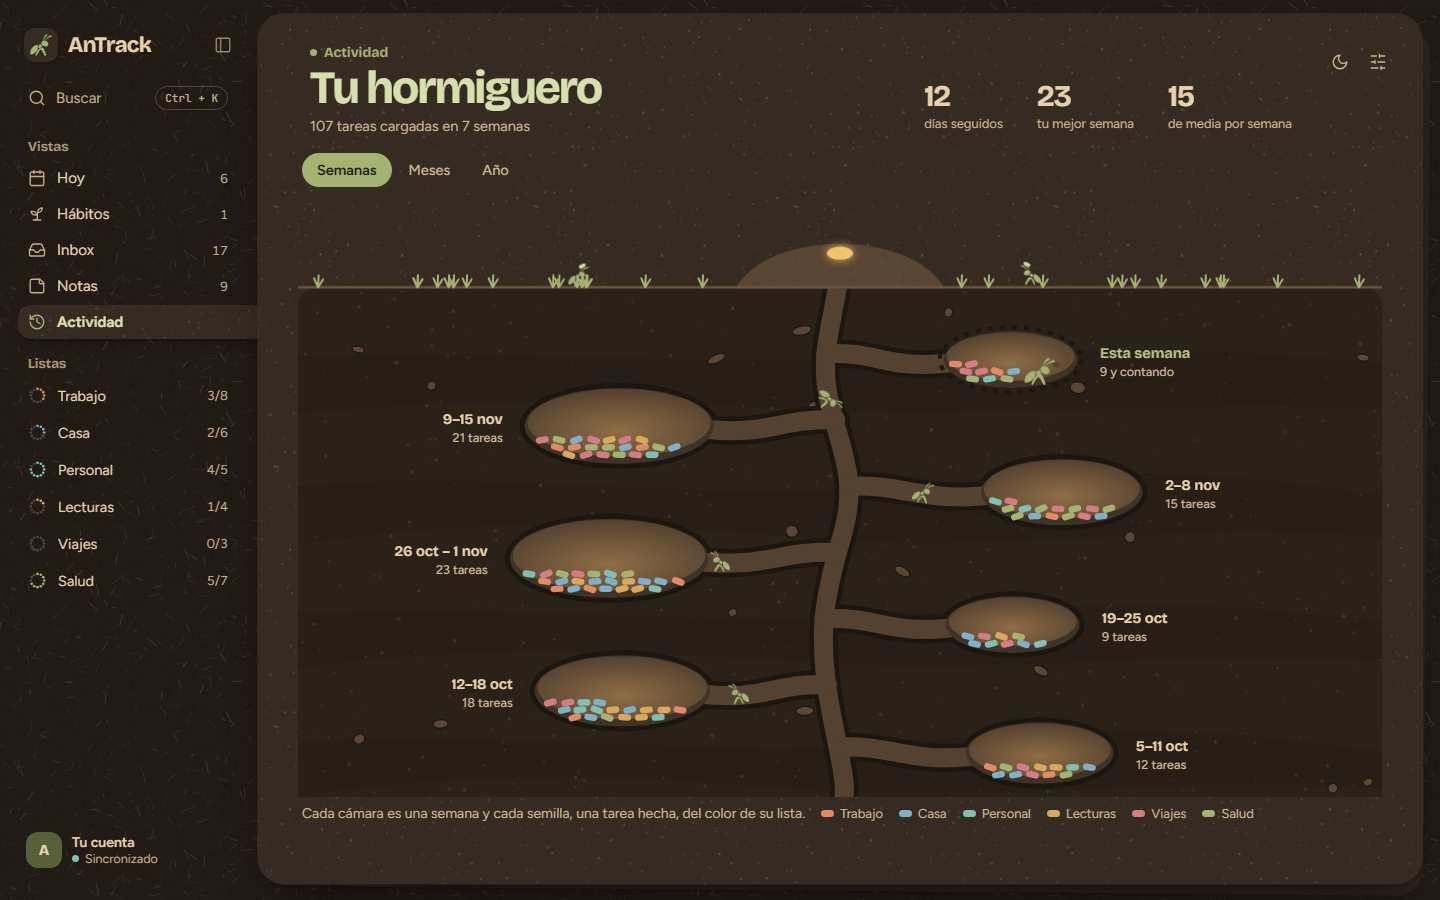
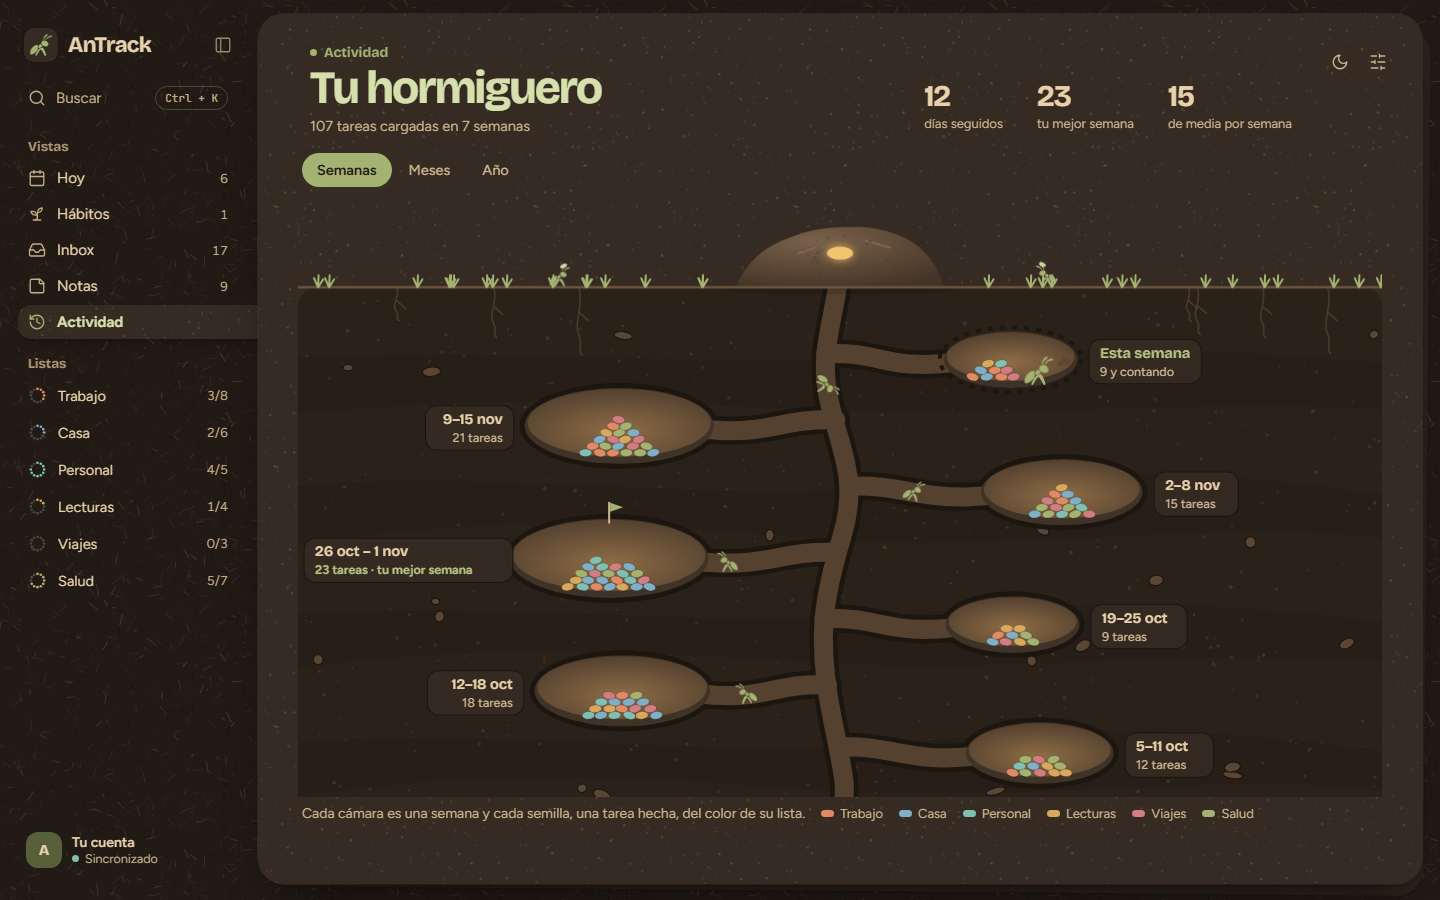
Docs: hormiguero de Actividad renovado (montículo, raíces, luz, pilas y mejor semana)

diff --git a/docs/disenos/hormiga/movil.html b/docs/disenos/hormiga/movil.html
@@ -670,6 +670,18 @@ a{color:inherit;text-decoration:none}
 .mes-dia-tit b{font:650 18px var(--f-disp)}
 .mes-dia-tit span{font-size:13px;color:var(--t3)}
 
+/* ═══ 26-nov: hormiguero de Actividad renovado ═══ */
+:root{--mont-1:#ecca8e;--mont-2:#d6ad6c;--mont-3:#b78a50;--ramita:#9b7a4a;--hueco-luz:#fffaf0;--raiz:#a88456;--tablilla:rgba(251,244,223,.88)}
+:root[data-theme="dark"]{--mont-1:#7a624c;--mont-2:#5c4836;--mont-3:#433427;--ramita:#806650;--hueco-luz:#a07a4c;--raiz:#5e4a38;--tablilla:rgba(53,43,35,.88)}
+.c-hueco{fill:url(#luz-camara)}
+.semilla{stroke:rgba(0,0,0,.2);stroke-width:.8}
+.raiz{fill:none;stroke:var(--raiz);stroke-width:1.7;stroke-linecap:round;opacity:.6}
+.ramita{fill:none;stroke:var(--ramita);stroke-width:2.2;stroke-linecap:round}
+.tablilla{fill:var(--tablilla);stroke:var(--tierra-borde);stroke-width:1}
+.bandera-r path:first-child{stroke:var(--t2);stroke-width:2;stroke-linecap:round}
+.bandera-r path:last-child{fill:var(--o500)}
+.mejor .etq-2{fill:var(--o600);font-weight:650}
+
 @media (prefers-reduced-motion:reduce){*,*::before,*::after{animation:none!important;transition:none!important}}
 </style>
 </head>
@@ -947,27 +959,34 @@ function enRuta(d,dur,begin,flip,w,miga=false,sup=false){
   const y=sup?-w*0.92:-w*0.55;
   return `<g><animateMotion dur="${dur}s" begin="${begin}" repeatCount="indefinite" rotate="auto" path="${d}"/><g transform="scale(1 ${flip?-1:1})">${hormiga({x:-w/2,y,w,cls:'anda'})}${miga?`<ellipse class="miga-llevada" cx="${(w*0.16).toFixed(1)}" cy="${(y+w*0.06).toFixed(1)}" rx="${(w*0.15).toFixed(1)}" ry="${(w*0.085).toFixed(1)}" transform="rotate(-25 ${(w*0.16).toFixed(1)} ${(y+w*0.06).toFixed(1)})"/>`:''}</g></g>`;
 }
+function montArriba(x0,x1,G,h){const X=u=>(x0+u*(x1-x0)).toFixed(1),Y=v=>(G+1+v*h).toFixed(1);
+  const d=`M${X(0)} ${Y(0)} C ${X(.04)} ${Y(-.38)}, ${X(.12)} ${Y(-.7)}, ${X(.25)} ${Y(-.86)} C ${X(.34)} ${Y(-1)}, ${X(.45)} ${Y(-1.07)}, ${X(.55)} ${Y(-1.05)} C ${X(.64)} ${Y(-1.08)}, ${X(.76)} ${Y(-.97)}, ${X(.83)} ${Y(-.83)} C ${X(.93)} ${Y(-.62)}, ${X(.98)} ${Y(-.3)}, ${X(1)} ${Y(0)} Z`;
+  return `<defs><radialGradient id="mg-act" cx="38%" cy="22%" r="85%"><stop offset="0" style="stop-color:var(--mont-1)"/><stop offset=".55" style="stop-color:var(--mont-2)"/><stop offset="1" style="stop-color:var(--mont-3)"/></radialGradient></defs>
+  <ellipse cx="${X(.5)}" cy="${G+2}" rx="${((x1-x0)*.56).toFixed(0)}" ry="5" style="fill:rgba(0,0,0,.12)"/><path d="${d}" style="fill:url(#mg-act)"/>
+  <path class="ramita" d="M${X(.62)} ${Y(-.82)} l ${((x1-x0)*.12).toFixed(1)} ${(h*.12).toFixed(1)} M${X(.3)} ${Y(-.6)} l ${((x1-x0)*.08).toFixed(1)} ${(-h*.1).toFixed(1)}"/>`;}
+function raices(r,W,G,evitar){let s='';for(let i=0;i<7;i++){const x=r()*W;if(x>evitar[0]&&x<evitar[1])continue;const l=26+r()*40;
+  s+=`<path class="raiz" d="M${x.toFixed(0)} ${G} c 5 ${(l*.3).toFixed(0)}, -6 ${(l*.55).toFixed(0)}, 0 ${(l*.75).toFixed(0)} c 4 ${(l*.15).toFixed(0)}, -2 ${(l*.25).toFixed(0)}, 3 ${(l*.3).toFixed(0)} M${x.toFixed(0)} ${(G+l*.4).toFixed(0)} l 9 8"/>`;}return s;}
 function camara(c,r,cols){
-  let s=`<g class="camara${c.actual?' cavando':''}"><title>${c.e}: ${c.n} tareas hechas</title>`;
+  let s=`<g class="camara${c.actual?' cavando':''}${c.mejor?' mejor':''}"><title>${c.e}: ${c.n} tareas hechas</title>`;
   if(c.actual)s+=`<ellipse class="c-borde-cav" cx="${c.cx}" cy="${c.cy}" rx="${c.rx+3.5}" ry="${c.ry+3.5}"/>`;
   s+=`<ellipse class="c-sombra" cx="${c.cx}" cy="${c.cy}" rx="${c.rx}" ry="${c.ry}"/><ellipse class="c-hueco" cx="${c.cx}" cy="${c.cy-2.5}" rx="${c.rx-2.5}" ry="${c.ry-3.5}"/>`;
-  let n=c.n;
-  for(let row=0;n>0&&row<10;row++){
-    const y=c.cy+c.ry-7-row*6.2;if(y<c.cy-c.ry+8)break;
-    const half=c.rx*Math.sqrt(Math.max(0,1-((y-c.cy)/c.ry)**2))-9;
-    const lim=c.actual?c.cx+half*0.1:c.cx+half;
-    for(let x=c.cx-half+(row%2?4:0);x<=lim&&n>0;x+=12.5+r()*1.5){
-      const col=cols[Math.floor(r()*cols.length)],a=((r()-.5)*44).toFixed(0);
-      s+=`<rect x="${(x-5.5).toFixed(1)}" y="${(y-2.7).toFixed(1)}" width="11" height="5.4" rx="2.7" style="fill:${col}" transform="rotate(${a} ${x.toFixed(1)} ${y.toFixed(1)})"/>`;n--;
-    }
-  }
+  const SW=11,SH=5.4;let base=1;while(base*(base+1)/2<c.n)base++;
+  const floor=c.cy+c.ry-10,half=c.rx*Math.sqrt(Math.max(0,1-((floor-c.cy)/c.ry)**2))-8;base=Math.min(base,Math.max(1,Math.floor(2*half/SW)));
+  const ox=c.actual?-c.rx*0.25:0;let n=c.n;const dec=base*(base+1)/2<c.n?2:1;
+  for(let row=0;n>0&&row<14;row++){const cnt=Math.max(1,base-Math.floor(row/dec)),y=floor-row*SH;if(y<c.cy-c.ry+6)break;const x0=c.cx+ox-(cnt-1)*SW/2;
+    for(let i=0;i<cnt&&n>0;i++,n--){const x=x0+i*SW+(r()-.5)*2,col=cols[Math.floor(r()*cols.length)],a=((r()-.5)*36).toFixed(0);
+      s+=`<ellipse class="semilla" cx="${x.toFixed(1)}" cy="${y.toFixed(1)}" rx="5" ry="3.1" style="fill:${col}" transform="rotate(${a} ${x.toFixed(1)} ${y.toFixed(1)})"/>`;}}
+  if(c.mejor)s+=`<g class="bandera-r"><path d="M${c.cx} ${c.cy-c.ry+4} V ${c.cy-c.ry-16}"/><path d="M${c.cx+1} ${c.cy-c.ry-16} l 13 4.5 l -13 4.5 Z"/></g>`;
+  
   if(c.actual){
     const ax=c.cx+c.rx*0.38,ay=c.cy+c.ry-27;
     s+=hormiga({x:ax-13,y:ay,w:26,cls:'cava'});
     for(let i=0;i<5;i++)s+=`<circle class="tierra-salta" cx="${(ax+12).toFixed(1)}" cy="${(ay+11).toFixed(1)}" r="${(1.3+r()*1.2).toFixed(1)}" style="--dx:${(6+r()*10).toFixed(0)}px;--dy:${(-5-r()*12).toFixed(0)}px;animation-delay:${(i*0.2).toFixed(2)}s"/>`;
   }
   const ly=c.cy-c.ry-(c.actual?11:9);
-  s+=`<text x="${c.cx}" y="${ly.toFixed(0)}" text-anchor="middle"><tspan class="etq-1">${c.actual?'Esta semana':c.e}</tspan><tspan class="etq-2" dx="5">${c.actual?c.n+' y contando':'· '+c.n}</tspan></text>`;
+  const tt=(c.actual?'Esta semana':c.e)+(c.actual?' '+c.n+' y contando':' · '+c.n+(c.mejor?' · récord':'')),tw=tt.length*6.3+18;
+  s+=`<rect class="tablilla" x="${(c.cx-tw/2).toFixed(0)}" y="${(ly-14).toFixed(0)}" width="${tw.toFixed(0)}" height="20" rx="10"/>`;
+  s+=`<text x="${c.cx}" y="${ly.toFixed(0)}" text-anchor="middle"><tspan class="etq-1">${c.actual?'Esta semana':c.e}</tspan><tspan class="etq-2" dx="5">${c.actual?c.n+' y contando':'· '+c.n+(c.mejor?' · récord':'')}</tspan></text>`;
   return s+'</g>';
 }
 function nido(){
@@ -975,11 +994,13 @@ function nido(){
   const sem=[{e:'16–22 nov',n:9,actual:1},{e:'9–15 nov',n:21},{e:'2–8 nov',n:15},{e:'26 oct–1 nov',n:23},{e:'19–25 oct',n:9},{e:'12–18 oct',n:18},{e:'5–11 oct',n:12}];
   const ys=[124,192,258,326,392,458,522];
   const cols=['var(--l-trabajo)','var(--l-casa)','var(--l-personal)','var(--l-lect)','var(--l-viajes)','var(--o500)'];
+  const maxN=Math.max(...sem.filter(x=>!x.actual).map(x=>x.n));sem.forEach(x=>{if(!x.actual&&x.n===maxN)x.mejor=1;});
   const cams=sem.map((s,i)=>{const dir=i%2===0?1:-1,cy=ys[i],x0=sx(cy),rx=30+s.n*1.45,ry=15+s.n*.5,cx=Math.round(x0+dir*(60+s.n*1.5));
     return {...s,dir,cx,cy,rx,ry,tun:`M${x0.toFixed(1)} ${cy-4} C ${(x0+dir*30).toFixed(1)} ${cy-6}, ${(cx-dir*(rx+30)).toFixed(1)} ${cy+8}, ${(cx-dir*rx*0.75).toFixed(1)} ${cy+2}`};});
   let s=`<svg class="nido" viewBox="0 0 ${W} ${H}" role="img" aria-label="Tu hormiguero">`;
-  s+=`<defs><radialGradient id="brillo-camara" cx="50%" cy="62%" r="62%"><stop offset="0" stop-color="#8f6d46"/><stop offset="1" stop-color="#54412f"/></radialGradient><clipPath id="cl-t"><rect x="0" y="${G-30}" width="${W}" height="${H}" rx="16"/></clipPath></defs><g clip-path="url(#cl-t)"><rect class="tierra" x="0" y="${G}" width="${W}" height="${H}"/>`;
+  s+=`<defs><radialGradient id="luz-camara" cx="50%" cy="72%" r="68%"><stop offset="0" style="stop-color:var(--hueco-luz)"/><stop offset="1" style="stop-color:var(--hueco)"/></radialGradient><radialGradient id="brillo-camara" cx="50%" cy="62%" r="62%"><stop offset="0" stop-color="#8f6d46"/><stop offset="1" stop-color="#54412f"/></radialGradient><clipPath id="cl-t"><rect x="0" y="${G-30}" width="${W}" height="${H}" rx="16"/></clipPath></defs><g clip-path="url(#cl-t)"><rect class="tierra" x="0" y="${G}" width="${W}" height="${H}"/>`;
   for(let k=0;k<4;k++){const y=G+50+k*120,a=8+r()*6,h=26+r()*16;s+=`<path class="estrato" d="M0 ${y} C 90 ${y-a}, 180 ${y+a}, 260 ${y} S 340 ${y-a}, 362 ${y+a*.5} L362 ${y+h} C 300 ${y+h-a}, 220 ${y+h+a}, 160 ${y+h} S 50 ${y+h-a}, 0 ${y+h+a*.4} Z"/>`;}
+  s+=raices(r,362,G,[110,252]);
   for(let i=0;i<260;i++)s+=`<circle class="mota" cx="${(r()*W).toFixed(1)}" cy="${(G+4+r()*(H-G)).toFixed(1)}" r="${(0.5+r()*1.2).toFixed(2)}" opacity="${(0.25+r()*0.45).toFixed(2)}"/>`;
   for(let i=0;i<10;i++){const x=(r()*W).toFixed(0),y=(G+16+r()*(H-G-16)).toFixed(0);s+=`<ellipse class="guijarro" cx="${x}" cy="${y}" rx="${(3+r()*4).toFixed(1)}" ry="${(2.4+r()*2).toFixed(1)}" transform="rotate(${(r()*60-30).toFixed(0)} ${x} ${y})"/>`;}
   s+=`<path class="t-borde" d="${SHAFT}"/>`;
@@ -987,7 +1008,7 @@ function nido(){
   s+=`<path class="t-hueco" d="${SHAFT}"/>`;cams.forEach(c=>{s+=`<path class="t-hueco" d="${c.tun}"/>`;});
   cams.forEach(c=>{s+=camara(c,r,cols);});
   s+=enRuta(SHAFT,20,'-3s',false,20);s+=enRuta(cams[1].tun,8,'-2s',true,18);s+=enRuta(cams[2].tun,9,'-5s',false,18);
-  s+=`</g><path class="monticulo" d="M128 ${G+1} C 146 20, 216 20, 234 ${G+1} Z"/>`;
+  s+=`</g>`+montArriba(128,234,G,37);
   for(let i=0;i<30;i++){const x=136+r()*90,top=G-36*Math.sin(Math.PI*(x-128)/106),y=top+3+r()*(G-top-3);s+=`<circle class="mota" cx="${x.toFixed(1)}" cy="${y.toFixed(1)}" r="${(0.5+r()*1).toFixed(2)}" opacity="${(0.3+r()*0.4).toFixed(2)}"/>`;}
   s+=`<ellipse class="entrada" cx="181" cy="35" rx="10" ry="5"/><path class="suelo" d="M0 ${G} H${W}"/>`;
   for(let i=0;i<16;i++){const x=r()*W;if(x>110&&x<252)continue;s+=`<path class="hierba" d="M${x.toFixed(0)} ${G} l-3 -7 M${x.toFixed(0)} ${G} l0.5 -10 M${x.toFixed(0)} ${G} l4 -6"/>`;}

diff --git a/docs/disenos/hormiga/index.html b/docs/disenos/hormiga/index.html
@@ -559,6 +559,18 @@ a{color:inherit;text-decoration:none}
   .paleta{width:calc(100vw - 80px)}
 }
 
+/* ═══ 26-nov: hormiguero de Actividad renovado ═══ */
+:root{--mont-1:#ecca8e;--mont-2:#d6ad6c;--mont-3:#b78a50;--ramita:#9b7a4a;--hueco-luz:#fffaf0;--raiz:#a88456;--tablilla:rgba(251,244,223,.88)}
+:root[data-theme="dark"]{--mont-1:#7a624c;--mont-2:#5c4836;--mont-3:#433427;--ramita:#806650;--hueco-luz:#a07a4c;--raiz:#5e4a38;--tablilla:rgba(53,43,35,.88)}
+.c-hueco{fill:url(#luz-camara)}
+.semilla{stroke:rgba(0,0,0,.2);stroke-width:.8}
+.raiz{fill:none;stroke:var(--raiz);stroke-width:1.7;stroke-linecap:round;opacity:.6}
+.ramita{fill:none;stroke:var(--ramita);stroke-width:2.2;stroke-linecap:round}
+.tablilla{fill:var(--tablilla);stroke:var(--tierra-borde);stroke-width:1}
+.bandera-r path:first-child{stroke:var(--t2);stroke-width:2;stroke-linecap:round}
+.bandera-r path:last-child{fill:var(--o500)}
+.mejor .etq-2{fill:var(--o600);font-weight:650}
+
 @media (prefers-reduced-motion:reduce){*,*::before,*::after{animation:none!important;transition:none!important}}
 </style>
 </head>
@@ -855,27 +867,35 @@ function enRuta(d,dur,begin,flip,w,miga=false,sup=false){
   const y=sup?-w*0.92:-w*0.55;
   return `<g><animateMotion dur="${dur}s" begin="${begin}" repeatCount="indefinite" rotate="auto" path="${d}"/><g transform="scale(1 ${flip?-1:1})">${hormiga({x:-w/2,y,w,cls:'anda'})}${miga?`<ellipse class="miga-llevada" cx="${(w*0.16).toFixed(1)}" cy="${(y+w*0.06).toFixed(1)}" rx="${(w*0.15).toFixed(1)}" ry="${(w*0.085).toFixed(1)}" transform="rotate(-25 ${(w*0.16).toFixed(1)} ${(y+w*0.06).toFixed(1)})"/>`:''}</g></g>`;
 }
+function montArriba(x0,x1,G,h){const X=u=>(x0+u*(x1-x0)).toFixed(1),Y=v=>(G+1+v*h).toFixed(1);
+  const d=`M${X(0)} ${Y(0)} C ${X(.04)} ${Y(-.38)}, ${X(.12)} ${Y(-.7)}, ${X(.25)} ${Y(-.86)} C ${X(.34)} ${Y(-1)}, ${X(.45)} ${Y(-1.07)}, ${X(.55)} ${Y(-1.05)} C ${X(.64)} ${Y(-1.08)}, ${X(.76)} ${Y(-.97)}, ${X(.83)} ${Y(-.83)} C ${X(.93)} ${Y(-.62)}, ${X(.98)} ${Y(-.3)}, ${X(1)} ${Y(0)} Z`;
+  return `<defs><radialGradient id="mg-act" cx="38%" cy="22%" r="85%"><stop offset="0" style="stop-color:var(--mont-1)"/><stop offset=".55" style="stop-color:var(--mont-2)"/><stop offset="1" style="stop-color:var(--mont-3)"/></radialGradient></defs>
+  <ellipse cx="${X(.5)}" cy="${G+2}" rx="${((x1-x0)*.56).toFixed(0)}" ry="5" style="fill:rgba(0,0,0,.12)"/><path d="${d}" style="fill:url(#mg-act)"/>
+  <path class="ramita" d="M${X(.62)} ${Y(-.82)} l ${((x1-x0)*.12).toFixed(1)} ${(h*.12).toFixed(1)} M${X(.3)} ${Y(-.6)} l ${((x1-x0)*.08).toFixed(1)} ${(-h*.1).toFixed(1)}"/>`;}
+function raices(r,W,G,evitar){let s='';for(let i=0;i<7;i++){const x=r()*W;if(x>evitar[0]&&x<evitar[1])continue;const l=26+r()*40;
+  s+=`<path class="raiz" d="M${x.toFixed(0)} ${G} c 5 ${(l*.3).toFixed(0)}, -6 ${(l*.55).toFixed(0)}, 0 ${(l*.75).toFixed(0)} c 4 ${(l*.15).toFixed(0)}, -2 ${(l*.25).toFixed(0)}, 3 ${(l*.3).toFixed(0)} M${x.toFixed(0)} ${(G+l*.4).toFixed(0)} l 9 8"/>`;}return s;}
 function camara(c,r,cols){
-  let s=`<g class="camara${c.actual?' cavando':''}"><title>${c.e}: ${c.n} tareas hechas</title>`;
+  let s=`<g class="camara${c.actual?' cavando':''}${c.mejor?' mejor':''}"><title>${c.e}: ${c.n} tareas hechas</title>`;
   if(c.actual)s+=`<ellipse class="c-borde-cav" cx="${c.cx}" cy="${c.cy}" rx="${c.rx+4}" ry="${c.ry+4}"/>`;
   s+=`<ellipse class="c-sombra" cx="${c.cx}" cy="${c.cy}" rx="${c.rx}" ry="${c.ry}"/><ellipse class="c-hueco" cx="${c.cx}" cy="${c.cy-3}" rx="${c.rx-3}" ry="${c.ry-4}"/>`;
-  let n=c.n;
-  for(let row=0;n>0&&row<12;row++){
-    const y=c.cy+c.ry-9-row*7.4;if(y<c.cy-c.ry+10)break;
-    const half=c.rx*Math.sqrt(Math.max(0,1-((y-c.cy)/c.ry)**2))-11;
-    const lim=c.actual?c.cx+half*0.25:c.cx+half;
-    for(let x=c.cx-half+(row%2?5:0);x<=lim&&n>0;x+=15.5+r()*2){
-      const col=cols[Math.floor(r()*cols.length)],a=((r()-.5)*44).toFixed(0);
-      s+=`<rect x="${(x-6.5).toFixed(1)}" y="${(y-3.2).toFixed(1)}" width="13" height="6.4" rx="3.2" style="fill:${col}" transform="rotate(${a} ${x.toFixed(1)} ${y.toFixed(1)})"/>`;n--;
-    }
-  }
+  const SW=13.5,SH=6.6;let base=1;while(base*(base+1)/2<c.n)base++;
+  const floor=c.cy+c.ry-11,half=c.rx*Math.sqrt(Math.max(0,1-((floor-c.cy)/c.ry)**2))-8;base=Math.min(base,Math.max(1,Math.floor(2*half/SW)));
+  const ox=c.actual?-c.rx*0.25:0;let n=c.n;const dec=base*(base+1)/2<c.n?2:1;
+  for(let row=0;n>0&&row<14;row++){const cnt=Math.max(1,base-Math.floor(row/dec)),y=floor-row*SH;if(y<c.cy-c.ry+6)break;const x0=c.cx+ox-(cnt-1)*SW/2;
+    for(let i=0;i<cnt&&n>0;i++,n--){const x=x0+i*SW+(r()-.5)*2,col=cols[Math.floor(r()*cols.length)],a=((r()-.5)*36).toFixed(0);
+      s+=`<ellipse class="semilla" cx="${x.toFixed(1)}" cy="${y.toFixed(1)}" rx="6.2" ry="3.8" style="fill:${col}" transform="rotate(${a} ${x.toFixed(1)} ${y.toFixed(1)})"/>`;}}
+  if(c.mejor)s+=`<g class="bandera-r"><path d="M${c.cx} ${c.cy-c.ry+4} V ${c.cy-c.ry-16}"/><path d="M${c.cx+1} ${c.cy-c.ry-16} l 13 4.5 l -13 4.5 Z"/></g>`;
+  
   if(c.actual){
     const ax=c.cx+c.rx*0.42,ay=c.cy+c.ry-34;
     s+=hormiga({x:ax-17,y:ay,w:34,cls:'cava'});
     for(let i=0;i<6;i++)s+=`<circle class="tierra-salta" cx="${(ax+16).toFixed(1)}" cy="${(ay+14).toFixed(1)}" r="${(1.6+r()*1.4).toFixed(1)}" style="--dx:${(8+r()*14).toFixed(0)}px;--dy:${(-6-r()*16).toFixed(0)}px;animation-delay:${(i*0.17).toFixed(2)}s"/>`;
   }
   const lx=c.cx+c.dir*(c.rx+22),an=c.dir>0?'start':'end';
-  s+=`<text class="etq-1" x="${lx.toFixed(0)}" y="${c.cy-2}" text-anchor="${an}">${c.actual?'Esta semana':c.e}</text><text class="etq-2" x="${lx.toFixed(0)}" y="${c.cy+16}" text-anchor="${an}">${c.actual?c.n+' y contando':c.n+' tareas'}</text>`;
+  const t1=c.actual?'Esta semana':c.e,t2=c.actual?c.n+' y contando':c.mejor?c.n+' tareas · tu mejor semana':c.n+' tareas',tw=Math.max(t1.length*8.2,t2.length*6.9)+22;
+  let rxx=an==='start'?lx-11:lx-tw+11,lxx=lx,ann=an;if(rxx<6){rxx=6;lxx=17;ann='start';}if(rxx+tw>1074){rxx=1074-tw;lxx=1063;ann='end';}
+  s+=`<rect class="tablilla" x="${rxx.toFixed(0)}" y="${c.cy-20}" width="${tw.toFixed(0)}" height="44" rx="11"/>`;
+  s+=`<text class="etq-1" x="${lxx.toFixed(0)}" y="${c.cy-2}" text-anchor="${ann}">${c.actual?'Esta semana':c.e}</text><text class="etq-2" x="${lxx.toFixed(0)}" y="${c.cy+16}" text-anchor="${ann}">${t2}</text>`;
   return s+'</g>';
 }
 function nido(){
@@ -883,13 +903,15 @@ function nido(){
   const sem=[{e:'16–22 nov',n:9,actual:1},{e:'9–15 nov',n:21},{e:'2–8 nov',n:15},{e:'26 oct – 1 nov',n:23},{e:'19–25 oct',n:9},{e:'12–18 oct',n:18},{e:'5–11 oct',n:12}];
   const ys=[164,230,296,362,428,494,556];
   const cols=['var(--l-trabajo)','var(--l-casa)','var(--l-personal)','var(--l-lect)','var(--l-viajes)','var(--o500)'];
+  const maxN=Math.max(...sem.filter(x=>!x.actual).map(x=>x.n));sem.forEach(x=>{if(!x.actual&&x.n===maxN)x.mejor=1;});
   const cams=sem.map((s,i)=>{const dir=i%2===0?1:-1,cy=ys[i],x0=sx(cy),rx=46+s.n*2.3,ry=21+s.n*.8,cx=Math.round(x0+dir*(150+s.n*3+r()*30));
     return {...s,dir,cx,cy,rx,ry,tun:`M${x0.toFixed(1)} ${cy-6} C ${(x0+dir*60).toFixed(1)} ${cy-8}, ${(cx-dir*(rx+60)).toFixed(1)} ${cy+12}, ${(cx-dir*rx*0.75).toFixed(1)} ${cy+2}`};});
   let s=`<svg class="nido" viewBox="0 0 ${W} ${H}" role="img" aria-label="Tu hormiguero: cada cámara es una semana">`;
-  s+=`<defs><radialGradient id="brillo-camara" cx="50%" cy="62%" r="62%"><stop offset="0" stop-color="#8f6d46"/><stop offset="1" stop-color="#54412f"/></radialGradient><clipPath id="cl-t"><rect x="0" y="${G}" width="${W}" height="${H-G+40}" rx="18"/></clipPath></defs>`;
+  s+=`<defs><radialGradient id="luz-camara" cx="50%" cy="72%" r="68%"><stop offset="0" style="stop-color:var(--hueco-luz)"/><stop offset="1" style="stop-color:var(--hueco)"/></radialGradient><radialGradient id="brillo-camara" cx="50%" cy="62%" r="62%"><stop offset="0" stop-color="#8f6d46"/><stop offset="1" stop-color="#54412f"/></radialGradient><clipPath id="cl-t"><rect x="0" y="${G}" width="${W}" height="${H-G+40}" rx="18"/></clipPath></defs>`;
   s+=`<g clip-path="url(#cl-t)"><rect class="tierra" x="0" y="${G}" width="${W}" height="${H}"/>`;
   for(let k=0;k<4;k++){const y=G+70+k*128,a=10+r()*8,h=34+r()*20;
     s+=`<path class="estrato" d="M0 ${y} C 200 ${y-a}, 400 ${y+a}, 600 ${y} S 900 ${y-a}, 1080 ${y+a*.5} L1080 ${y+h} C 880 ${y+h-a}, 700 ${y+h+a}, 500 ${y+h} S 160 ${y+h-a}, 0 ${y+h+a*.4} Z"/>`;}
+  s+=raices(r,1080,G,[420,660]);
   for(let i=0;i<520;i++)s+=`<circle class="mota" cx="${(r()*W).toFixed(1)}" cy="${(G+4+r()*(H-G)).toFixed(1)}" r="${(0.6+r()*1.4).toFixed(2)}" opacity="${(0.25+r()*0.45).toFixed(2)}"/>`;
   for(let i=0;i<22;i++){const x=(r()*W).toFixed(0),y=(G+20+r()*(H-G-20)).toFixed(0);s+=`<ellipse class="guijarro" cx="${x}" cy="${y}" rx="${(4+r()*6).toFixed(1)}" ry="${(3+r()*3).toFixed(1)}" transform="rotate(${(r()*60-30).toFixed(0)} ${x} ${y})"/>`;}
   s+=`<path class="t-borde" d="${SHAFT}"/>`;
@@ -902,7 +924,7 @@ function nido(){
   s+=enRuta(cams[3].tun,11,'-6s',cams[3].dir<0,24);
   s+=enRuta(cams[5].tun,10,'-4s',cams[5].dir<0,24);
   s+=`</g>`;
-  s+=`<path class="monticulo" d="M436 ${G+1} C 468 34, 612 34, 644 ${G+1} Z"/>`;
+  s+=montArriba(436,644,G,58);
   for(let i=0;i<60;i++){const x=448+r()*184,top=G-56*Math.sin(Math.PI*(x-436)/208),y=top+4+r()*(G-top-4);s+=`<circle class="mota" cx="${x.toFixed(1)}" cy="${y.toFixed(1)}" r="${(0.6+r()*1.2).toFixed(2)}" opacity="${(0.3+r()*0.4).toFixed(2)}"/>`;}
   s+=`<ellipse class="entrada" cx="540" cy="58" rx="13" ry="6.5"/>`;
   s+=`<path class="suelo" d="M0 ${G} H${W}"/>`;

diff --git a/docs/disenos/hormiga/LEEME.md b/docs/disenos/hormiga/LEEME.md
@@ -220,3 +220,4 @@ Incluye los casos: empezando, casi, día completo, 14 tareas, y la versión móv
 - **Camino (actualizado el 26-nov):** la línea de puntos pasa a ser una senda de tierra con bordes irregulares que llega hasta la entrada del hormiguero. Detrás de la hormiga quedan sus pisadas en verde; delante, en gris. A los lados hay matas, piedras y una hoja. Las semillas llevan una pequeña sombra.
 - **Entrada (26-nov):** la puerta del hormiguero pasa de la cima a la base, mirando al camino, y la senda sube por una rampa de tierra hasta ella. Al terminar el día, la hormiga espera en la puerta.
 - **Hormiguero (26-nov):** silueta irregular con volumen (luz arriba a la izquierda y sombra en el suelo), textura de granos de tierra y un par de ramitas. Las tareas hechas se guardan como una pila de semillas de colores junto a la puerta, y el montículo crece un poco con el progreso del día.
+- **Hormiguero de Actividad (26-nov):** el montículo de arriba tiene el mismo estilo que el del progreso (volumen, textura y ramitas). Raíces que bajan desde la hierba; cámaras con luz cálida dentro; las tareas de cada semana como una pila de semillas en el suelo de la cámara; etiquetas en tablillas legibles sobre la tierra, y una banderita en la mejor semana («tu mejor semana» / «récord»).
